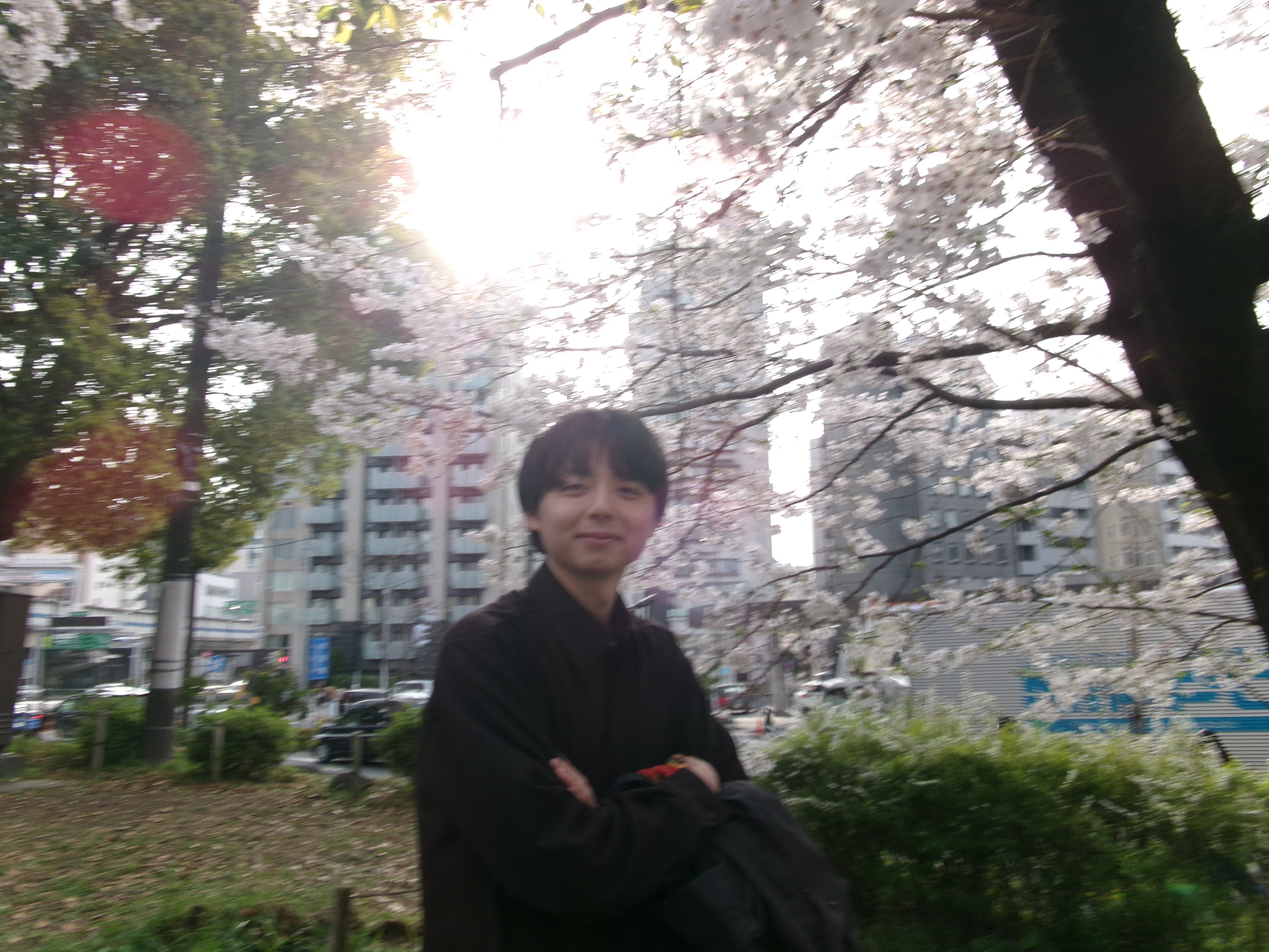
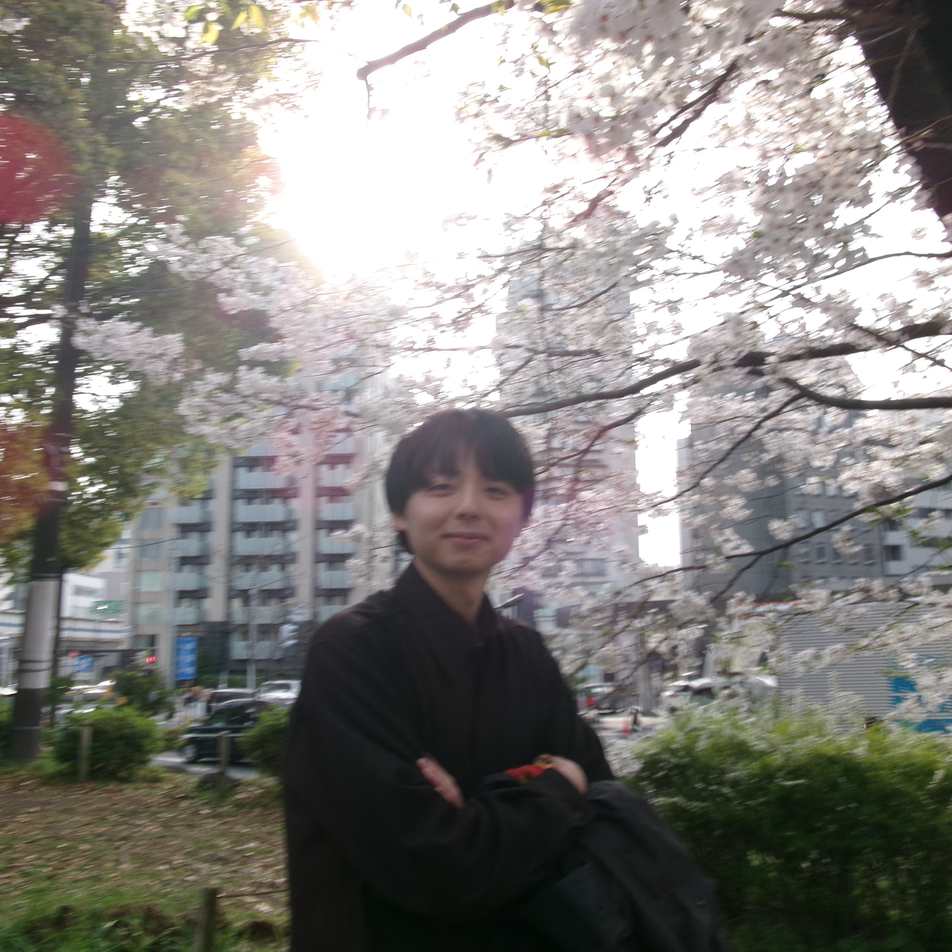
デザイン変更

diff --git a/profile/index.html b/profile/index.html
@@ -37,44 +37,87 @@
         <img src="./img/about-image.JPG" alt="佐藤嵩大">
         <div class="about-box-text">
           <h3>はじめまして。<br>訪問いただきありがとうございます。<br>佐藤嵩大です。</h3>
-          <div><b>学歴</b><ul><li>2017～2021&nbsp;日本大学&nbsp;生物資源科学部生物環境工学科</li></ul></div>
+          <div><b>学歴</b>
+            <ul><li>2017～2021&nbsp;日本大学&nbsp;生物資源科学部生物環境工学科</li></ul>
+          </div>
           <div><b>職歴</b>
             <ul>
               <li>2021.4&nbsp;万星食品株式会社&nbsp;入社</li>
               <li>2023.1&nbsp;株式会社LULL&nbsp;入社</li>
-              <li></li>
             </ul>
           </div>
         </div>
       </div>
-      <h4>PROJECTS</h4>
-      <div class="skill-box">
-        <div class="skill-group project-list">
-          <a href="" class="project-link" data-project="1">
-            <img src="./img/HTML5_Logo_256.png" alt="HTML5">
-            <p>webサイト再構築プロジェクトにて、<br>コーディング（HTML・CSS）を経験</p>
-          </a>
-        </div>
-        <div class="skill-group project-list">
-          <a href="" class="project-link" data-project="2">
-            <img src="./img/pngtree-validation-icon-okay-png-image_10804380.png" alt="check">
-            <p>アプリゲームのQA検証作業&#9312;</p>
-          </a>
-        </div>
-        <div class="skill-group project-list">
-          <a href="" class="project-link" data-project="3">
-            <img src="./img/pngtree-validation-icon-okay-png-image_10804380.png" alt="check">
-            <p>アプリゲームのQA検証作業&#9313;</p>
-          </a>
-        </div>
-        <div id="project-modal" class="modal">
-          <div class="modal-content">
-            <span class="close">&times;</span>
-            <div id="project-details"></div>
+          <div class="hobby-box">
+            <h4 class="hobby-text">私の趣味はサウナです<br>おすすめのサウナ6選</h4>
+            <div class="swiper-container">
+              <div class="swiper-wrapper">
+                <div class="swiper-slide">
+                  <img src="./img/yunosato.jpg" alt="野天風呂 湯の郷">
+                  <p class="img-text">&#9312;野天風呂 湯の郷 / 千葉県野田市</p>
+                </div>
+                <div class="swiper-slide">
+                  <img src="./img/spametsa_sendai.jpg" alt="スパメッツア仙台 竜泉寺の湯">
+                  <p class="img-text">&#9313;スパメッツア仙台 竜泉寺の湯 / 宮城県仙台市</p>
+                </div>
+                <div class="swiper-slide">
+                  <img src="./img/asakasauna.jpg" alt="朝霞サウナ 和">
+                  <p class="img-text">&#9314;朝霞サウナ 和 /埼玉見朝霞市</p>
+                </div>
+                <div class="swiper-slide">
+                  <img src="./img/sauna_heaven.jpg" alt="サウナヘヴン草加">
+                  <p class="img-text">&#9315;サウナヘヴン草加 / 埼玉県草加市</p>
+                </div>
+                <div class="swiper-slide">
+                  <img src="./img/losco.jpg" alt="カプセルホテル＆サウナ ロスコ">
+                  <p class="img-text">&#9316;カプセルホテル＆サウナ ロスコ / 東京都北区</p>
+                </div>
+                <div class="swiper-slide">
+                  <img src="./img/kaieiyu.jpg" alt="改栄湯">
+                  <p class="img-text">&#9317;改栄湯 / 東京都台東区</p>
+                </div>
+              </div>
+              <div class="swiper-button-prev"></div>
+              <div class="swiper-button-next"></div>
+            </div>
           </div>
-        </div>
-      </div>
+
     </div>
+          <h2 id="project">Projects<small>-経験-</small></h2>
+          <div class="skill-box">
+            <div class="skill-group project-list w-30 sp-w">
+              <a href="" class="project-link" data-project="1">
+                <img src="./img/curriculum.png" alt="curriculum">
+                <p>カリキュラム学習</p>
+              </a>
+            </div>
+            <div class="skill-group project-list w-30 sp-w">
+              <a href="" class="project-link" data-project="1">
+                <img src="./img/HTML5_Logo_256.png" alt="HTML5">
+                <p>webサイト再構築プロジェクトにて、<br>コーディング（HTML・CSS）を経験</p>
+              </a>
+            </div>
+            <div class="w-30 sp-w">
+              <div class="skill-group project-list">
+                <a href="" class="project-link" data-project="2">
+                  <img src="./img/pngtree-validation-icon-okay-png-image_10804380.png" alt="check">
+                  <p>アプリゲームのQA検証作業&#9312;</p>
+                </a>
+              </div>
+              <div class="skill-group project-list">
+                <a href="" class="project-link" data-project="3">
+                  <img src="./img/pngtree-validation-icon-okay-png-image_10804380.png" alt="check">
+                  <p>アプリゲームのQA検証作業&#9313;</p>
+                </a>
+              </div>
+              <div id="project-modal" class="modal">
+                <div class="modal-content">
+                  <span class="close">&times;</span>
+                  <div id="project-details"></div>
+                </div>
+              </div>
+            </div>
+          </div>
     <h2 id="plan">Plan<small>-キャリアプラン-</small></h2>
     <div class="plan-box">
       <div class="plan-list">
@@ -85,41 +128,6 @@
       </div>
       <div class="plan-list">
         <h3>短期目標<span>&#0058;</span>フロントエンドの領域を広げる</h3>
-      </div>
-    </div>
-    <h2 id="hobby">Hobby<small>-趣味-</small></h2>
-    <div class="hobby-box">
-      <p class="hobby-text">趣味は…<b><span>サ</span><span>ウ</span><span>ナ</span></b>です。</p>
-      <h3 class="hobby-text">おすすめのサウナ6選</h3>
-      <div class="swiper-container">
-        <div class="swiper-wrapper">
-          <div class="swiper-slide">
-            <img src="./img/yunosato.jpg" alt="野天風呂 湯の郷">
-            <p class="img-text">&#9312;野天風呂 湯の郷 / 千葉県野田市</p>
-          </div>
-          <div class="swiper-slide">
-            <img src="./img/spametsa_sendai.jpg" alt="スパメッツア仙台 竜泉寺の湯">
-            <p class="img-text">&#9313;スパメッツア仙台 竜泉寺の湯 / 宮城県仙台市</p>
-          </div>
-          <div class="swiper-slide">
-            <img src="./img/asakasauna.jpg" alt="朝霞サウナ 和">
-            <p class="img-text">&#9314;朝霞サウナ 和 /埼玉見朝霞市</p>
-          </div>
-          <div class="swiper-slide">
-            <img src="./img/sauna_heaven.jpg" alt="サウナヘヴン草加">
-            <p class="img-text">&#9315;サウナヘヴン草加 / 埼玉県草加市</p>
-          </div>
-          <div class="swiper-slide">
-            <img src="./img/losco.jpg" alt="カプセルホテル＆サウナ ロスコ">
-            <p class="img-text">&#9316;カプセルホテル＆サウナ ロスコ / 東京都北区</p>
-          </div>
-          <div class="swiper-slide">
-            <img src="./img/kaieiyu.jpg" alt="改栄湯">
-            <p class="img-text">&#9317;改栄湯 / 東京都台東区</p>
-          </div>
-       </div>
-       <div class="swiper-button-prev"></div>
-       <div class="swiper-button-next"></div>
       </div>
     </div>
     <h2 id="link">Link<small>-関連サイト-</small></h2>

diff --git a/profile/css/style.css b/profile/css/style.css
@@ -15,12 +15,14 @@ section{
 
 header {
   display: flex;
-  background-color: #000;
+  /* position: fixed; */
+  background-color: #606c38;
   color: white;
   text-align: center;
   align-items: center;
   height: 13vh;
   width: 100%;
+  z-index: 100;
 }
 
 .flex{
@@ -51,7 +53,8 @@ small{
 h1{
   font-family: 'Lato', sans-serif;
   font-weight: 300;
-  font-size: 25px;
+  font-size: 29px;
+  font-weight: bold;
   margin-left: 20px;
 }
 
@@ -79,14 +82,13 @@ nav{
   text-align: center;
   border: 2px solid #fff;
   border-radius: 7px;
-  background-color: #000;
+  background-color: #606c38;
 }
 
 
 .nav-link a{
   display: block;
-  font-size: 0.7rem;
-  letter-spacing: 0.12em;
+  font-size: 0.9rem;
   padding: 8px 0;
   text-decoration: none;
   color: #fff;
@@ -204,24 +206,27 @@ nav{
 margin: 0 20px;
 }
 
+.hobby-box{
+  margin-top: 80px;
+}
 .about-box{
   display: flex;
   margin: 10px 0;
 }
 
 .about-box img{
-  width: 50%;
+  width: 30%;
+  height: 30%;
+  border-radius: 50%;
+  margin-left: 100px;
 }
 
 .about-box-text{
   width: 100%;
-  margin: 0 50px ;
+  margin-left: 150px ;
   border-radius: 5px;
 }
 
-.about-box-text ul li{
-  list-style: none;
-}
 
 @media screen and (max-width: 736px){
   .about-box{
@@ -229,10 +234,15 @@ margin: 0 20px;
   }
   .about-box img{
     width: 100%;
+    margin-left: 0;
   }
   .about-box-text{
     margin: 0;
   }
+}
+
+.skill-box{
+  display: flex;;
 }
 
 .skill-group{
@@ -241,12 +251,12 @@ margin: 0 20px;
   border-radius: 5px;
   border: 1px solid #000;
   margin: 10px;
-  width: 35%;
+  width: 100%;
   height: 80px;
 }
 
 .skill-group img {
-  width: 50px;
+  width: 14%;
   height: 50px;
   margin-left: 15px;
 }
@@ -254,13 +264,21 @@ margin: 0 20px;
 .skill-group p{
   font-size: 0.8rem;
   margin-left: 20px;
-  width: 55%;
+  width: 70%;
+}
+
+.w-30{
+  width: 30%;
 }
 
 @media screen and (max-width: 736px){
-  .skill-group{
+  .skill-box{
+    display: block;
+  }
+  .sp-w{
     width: 100%;
   }
+
 }
 
 @media screen and (max-width: 412px) {
@@ -411,6 +429,8 @@ margin: 0 20px;
  .hobby-text{
   display: flex;
   overflow: hidden;
+  justify-content: center;
+  padding-right: 30px;
  }
 
  .hobby-text span{
